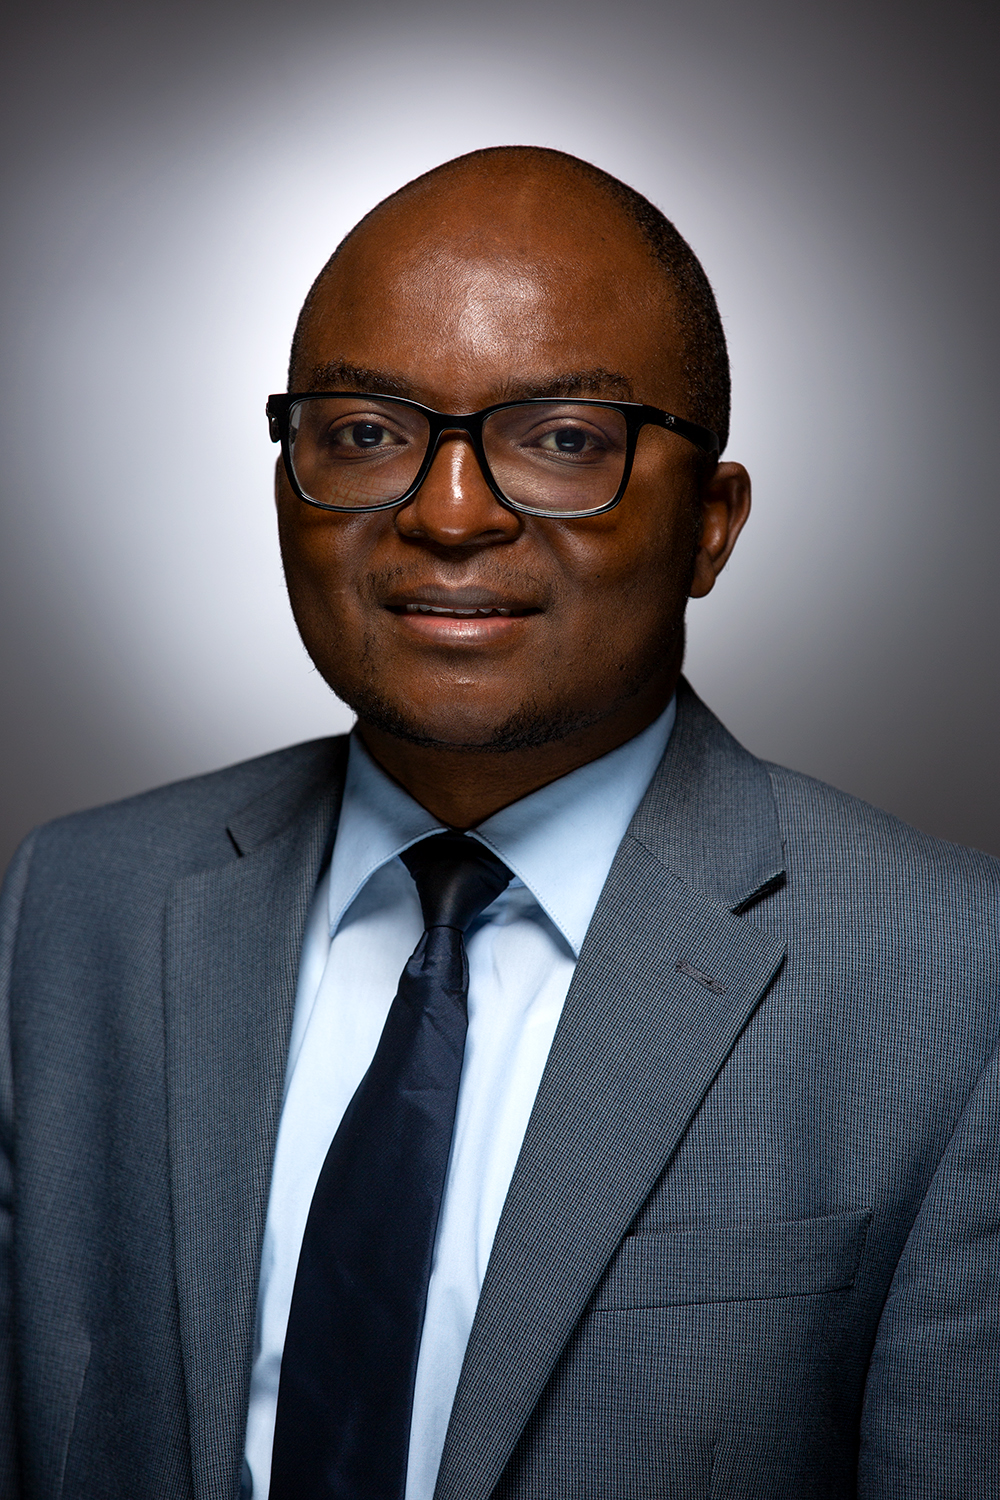
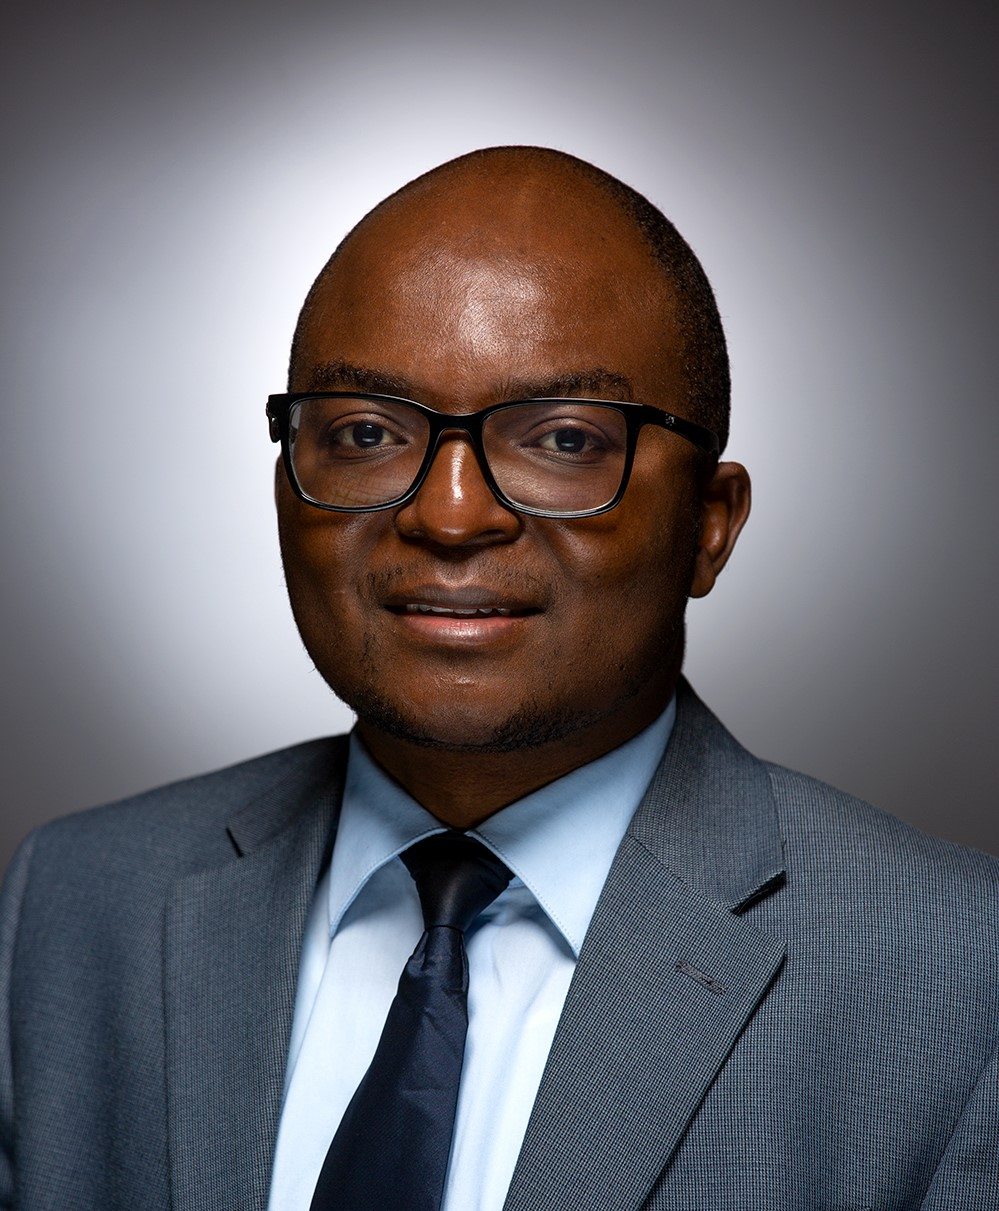
Added Links

diff --git a/links.html b/links.html
@@ -10,11 +10,6 @@
         <link rel="stylesheet" href="css/sitestyle.css">
         <meta name="viewport" content="width=device-width, initial-scale=1.0">
 
-        <style>
-            h2 a, p a {
-                color: #fff;
-            }
-        </style>
     </head>
 
     <body>
@@ -44,27 +39,30 @@
         <!-- Main Content -->
         <main>
             <h1>Useful Links</h1>
-            <h2><a href="https://asq.org/">ASQ Website</a></h2>
-            <h3>H3</h3>
-            <h4>H4</h4>
-            <p>P</p>
-            <p>P</p>
-            <p>P</p>
-            <p>P</p>
-            <p>P</p>
-            <p>P</p>
-            <p>P</p>
-            <p>P</p>
-            <p>P</p>
-            <p>P</p>
-            <p>P</p>
-            <p>P</p>
-            <p>P</p>
-            <p>P</p>
-            <p>P</p>
-            <p>P</p>
-            <p>P</p>
-            <p>P</p>
+            <h3><a href="https://asq.org/">ASQ Website</a></h3>
+            <p>
+                <ul>
+                    <li><a href="www.acmq.org">American College of Medical Quality</a></li>
+                    <li><a href="www.ahqa.org">American Health Quality Association</a></li>
+                    <li><a href="www.apqc.org">American Productivity and Quality Center</a></li>
+                    <li><a href="www.asq.org">American Society for Quality</a></li>
+                    <li><a href="www.asq.org/teamwork/">Association for Quality and Participation</a></li>
+                    <li><a href="www.rit.edu">Center for Quality and Applied Statistics</a></li>
+                    <li><a href="www.engr.wisc.edu/centers/cqpi">Center for Quality and Productivity Improvement</a></li>
+                    <li><a href="www.cqm.org">Center for Quality of Management</a></li>
+                    <li><a href="www.healthquality.org">Health Care Quality Alliance</a></li>
+                    <li><a href="www.icqfd.org">International Council for Quality Function Deployment</a></li>
+                    <li><a href="www.iqfnet.org">International Quality Federation</a></li>
+                    <li><a href="www.maqin.org">Madison Area Quality Improvement Network</a></li>
+                    <li><a href="www.nahq.org">National Association for Healthcare Quality</a></li>
+                    <li><a href="www.ncqa.org">National Committee for Quality Assurance</a></li>
+                    <li><a href="www.qualityforum.org">National Forum for Health Care Quality Measurement and Reporting</a></li>
+                    <li><a href="www.nqi.org">National Quality Initiative</a></li>
+                    <li><a href="www.tqm.com">Quality Engineering, and Manufacturing Association</a></li>
+                    <li><a href="www.wqa.org">Water Quality Association</a></li>
+                </ul>
+            </p>
+
         </main>
 
         <script type="text/javascript" src="js/sitescript.js"></script>

diff --git a/leadership.html b/leadership.html
@@ -11,7 +11,7 @@
         <meta name="viewport" content="width=device-width, initial-scale=1.0">
         <style>
             img {
-                max-width: 10%;
+                max-width: 150px;
                 height: auto;
             }
         </style>
@@ -48,7 +48,7 @@
             <h3>Dr. Eli Aba</h3>
             <h5>Chair</h5>
             <div id="memberInfo">
-                <img src="img/Eli_Aba.jpg" height="1500px" width="1000px">
+                <img src="img/Eli_Aba.jpg" height="1211px" width="999px">
                 <p>
                     Eli Aba is the chair of the ASQ Northwest Wisconsin Section Committee (1215). From 2017 to 2019, he had served as VoC Chair and Chair of the Four State (MOKA) Section Committee (1306).<br><br>
 

diff --git a/css/sitestyle.css b/css/sitestyle.css
@@ -138,6 +138,10 @@ p {
     line-height: 20px;
 }
 
+a {
+    color: #FFF;
+}
+
 footer p { 
     font-size: 16px; 
     font-style: normal; 
